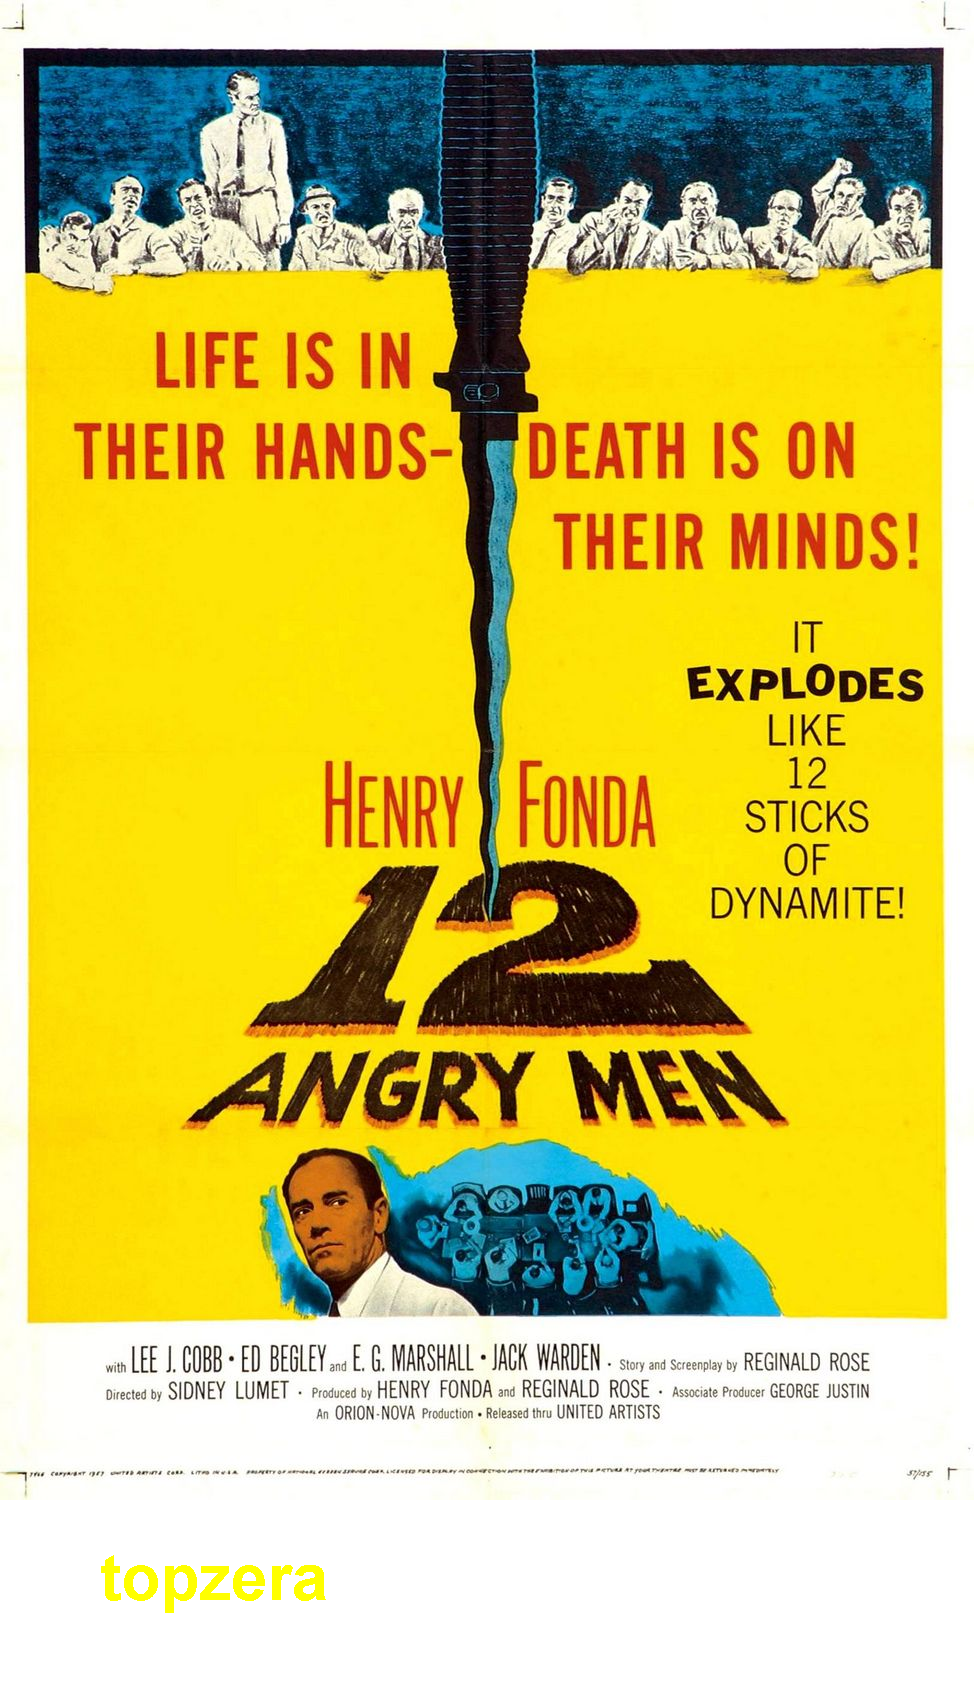
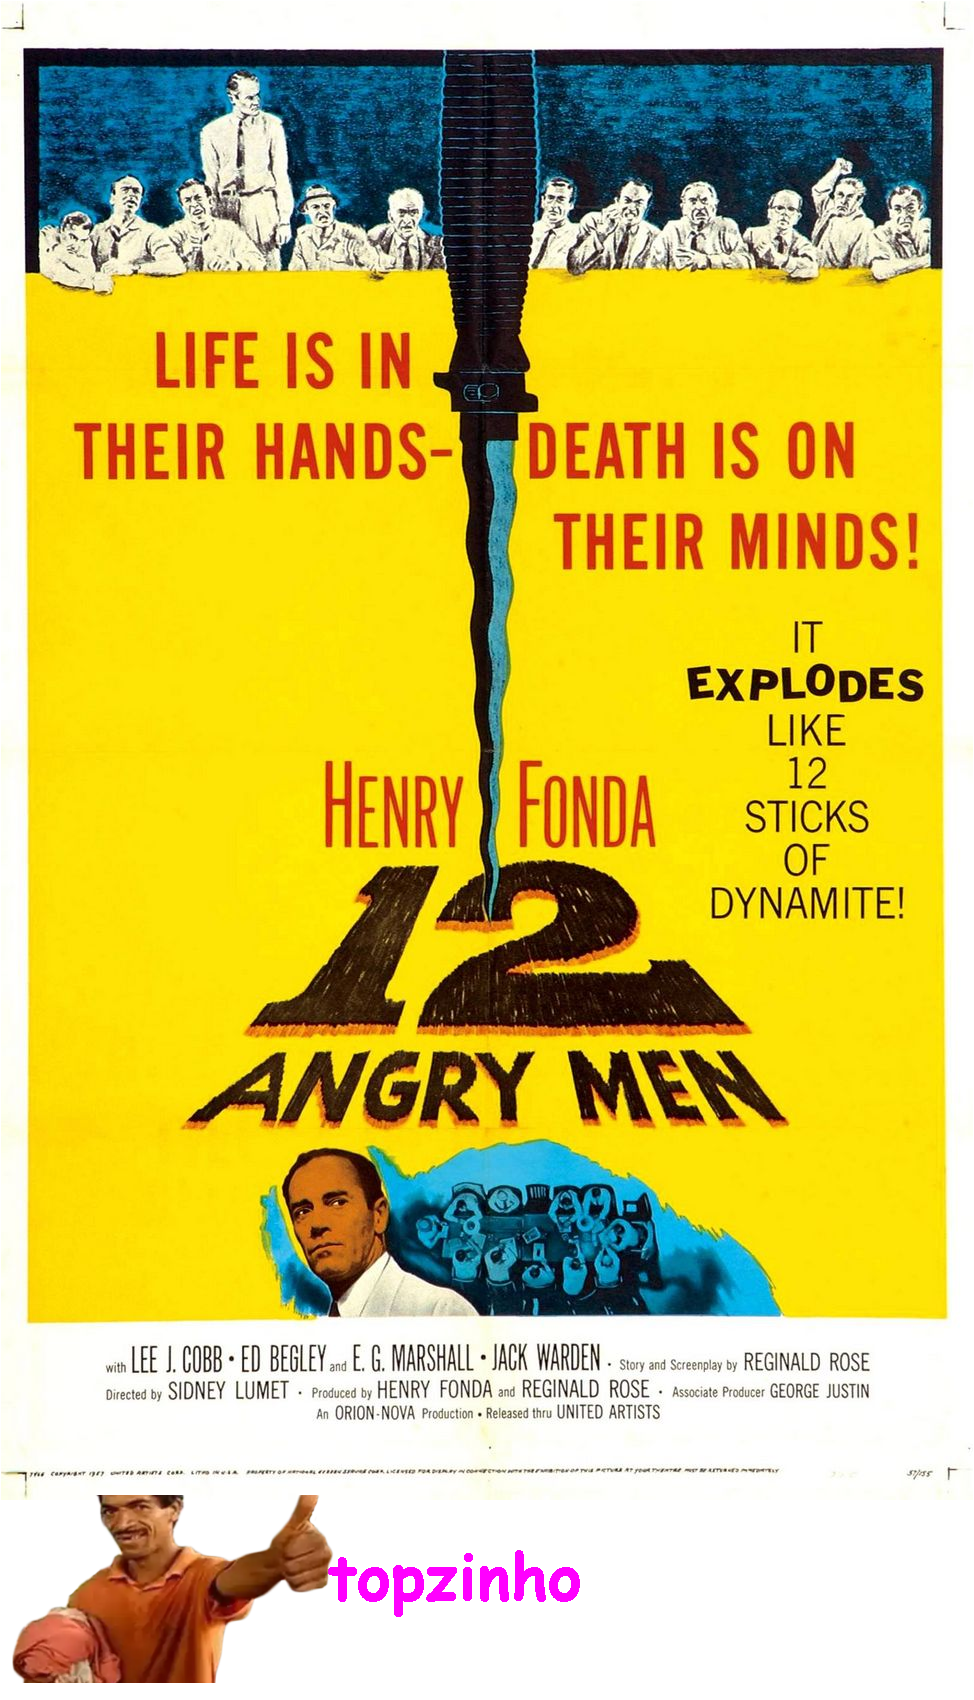
Desafio 02

Changed region(s): [[0.0, 0.8729, 0.616, 0.9976]]

diff --git a/src/alura/GeradoraDeFigurinhas.java b/src/alura/GeradoraDeFigurinhas.java
@@ -10,32 +10,58 @@ import java.io.InputStream;
 import javax.imageio.ImageIO;
 
 public class GeradoraDeFigurinhas {
-	
-	public void cria(InputStream inputStream, String nomeArquivo) throws Exception {
+
+	public void cria(InputStream inputStream, String nomeArquivo, double notaDoFilme) throws Exception {
+
+		// leitura da imagem
+		// InputStream inputStream = new FileInputStream(new
+		// File("entrada/filme-maior.jpg"));
+		// InputStream inputStream = new
+		// URL("https://assets.mycast.io/characters/trevor-spacey-7144920-nordomal.jpg?1655853528%22).openStream();
+		BufferedImage imagemOriginal = ImageIO.read(inputStream);
+
+		// cria nova imagem em memória com transparência e com tamanho novo
+		int largura = imagemOriginal.getWidth();
+		int altura = imagemOriginal.getHeight();
+		int novaAltura = altura + 200;
+		BufferedImage novaImagem = new BufferedImage(largura, novaAltura, BufferedImage.TRANSLUCENT);
 		
-	    // leitura da imagem
-        //InputStream inputStream = new FileInputStream(new File("entrada/filme-maior.jpg"));
-       //  InputStream inputStream = new URL("https://assets.mycast.io/characters/trevor-spacey-7144920-normal.jpg?1655853528%22).openStream();
-        BufferedImage imagemOriginal = ImageIO.read(inputStream);
+		// criando imagem do joinha
+		BufferedImage imagemJoinha = ImageIO.read(new File("./joinha/joinha.png"));	
 
-        // cria nova imagem em memória com transparência e com tamanho novo
-        int largura = imagemOriginal.getWidth();
-        int altura = imagemOriginal.getHeight();
-        int novaAltura = altura + 200;
-        BufferedImage novaImagem = new BufferedImage(largura, novaAltura, BufferedImage.TRANSLUCENT);
+		// copiar a imagem original para nova imagem (em memória)
+		Graphics2D graphics = (Graphics2D) novaImagem.getGraphics();
+		graphics.drawImage(imagemOriginal, 0, 0, null);
 
-        // copiar a imagem original para nova imagem (em memória)
-        Graphics2D graphics = (Graphics2D) novaImagem.getGraphics();
-        graphics.drawImage(imagemOriginal, 0, 0, null);
-
-        //configurar a fonte
-        var fonte = new Font(Font.SANS_SERIF, Font.BOLD, 64);
-        graphics.setColor(Color.YELLOW);
-        graphics.setFont(fonte);
-        // escrever na nova imagem
-        graphics.drawString("topzera", 100, novaAltura - 100);
-        // escrever a imagem nova em um arquivo
-        ImageIO.write(novaImagem, "png", new File(nomeArquivo));
+		// configurar a fonte
+		var fonte = new Font("Comic Sans MS", Font.BOLD, 64);
+		graphics.setColor(Color.magenta);
+		graphics.setFont(fonte);
+			
+		// escrever na nova imagem de acordo com a nota do filme
+		String textoDaImagem;
+		if(notaDoFilme > 9) {
+			textoDaImagem = "topzão";
+		} 
+		else {
+			textoDaImagem = "topzinho";
+		}		
+		
+		// centralizando o texto da imagem
+		var center = largura/2 - (textoDaImagem.length() * 20);  
+        graphics.drawString(textoDaImagem, center , novaAltura - 100);
+        
+        // inserindo borda na imagem
+        graphics.setColor(Color.WHITE);
+        graphics.drawRect(0,0, novaImagem.getWidth() - 1,novaImagem.getHeight() - 1);
+        
+		// inserindo o joinha na imagem
+		int alturaJoinha = altura - 5;
+		graphics.drawImage(imagemJoinha, 0, alturaJoinha, null);
+		
+		// escrever a imagem nova em um arquivo
+		ImageIO.write(novaImagem, "png", new File(nomeArquivo));
+		
 	}
 	
 }

diff --git a/src/alura/Main.java b/src/alura/Main.java
@@ -48,7 +48,7 @@ public class Main {
 			String nomeDoArquivo = titulo + ".png";
 			
 			var geradora = new GeradoraDeFigurinhas();
-			geradora.cria(inputStream, nomeDoArquivo);
+			geradora.cria(inputStream, nomeDoArquivo, Double.parseDouble(filme.get("imDbRating")));
 		
 			System.out.println(titulo);		
 		}
